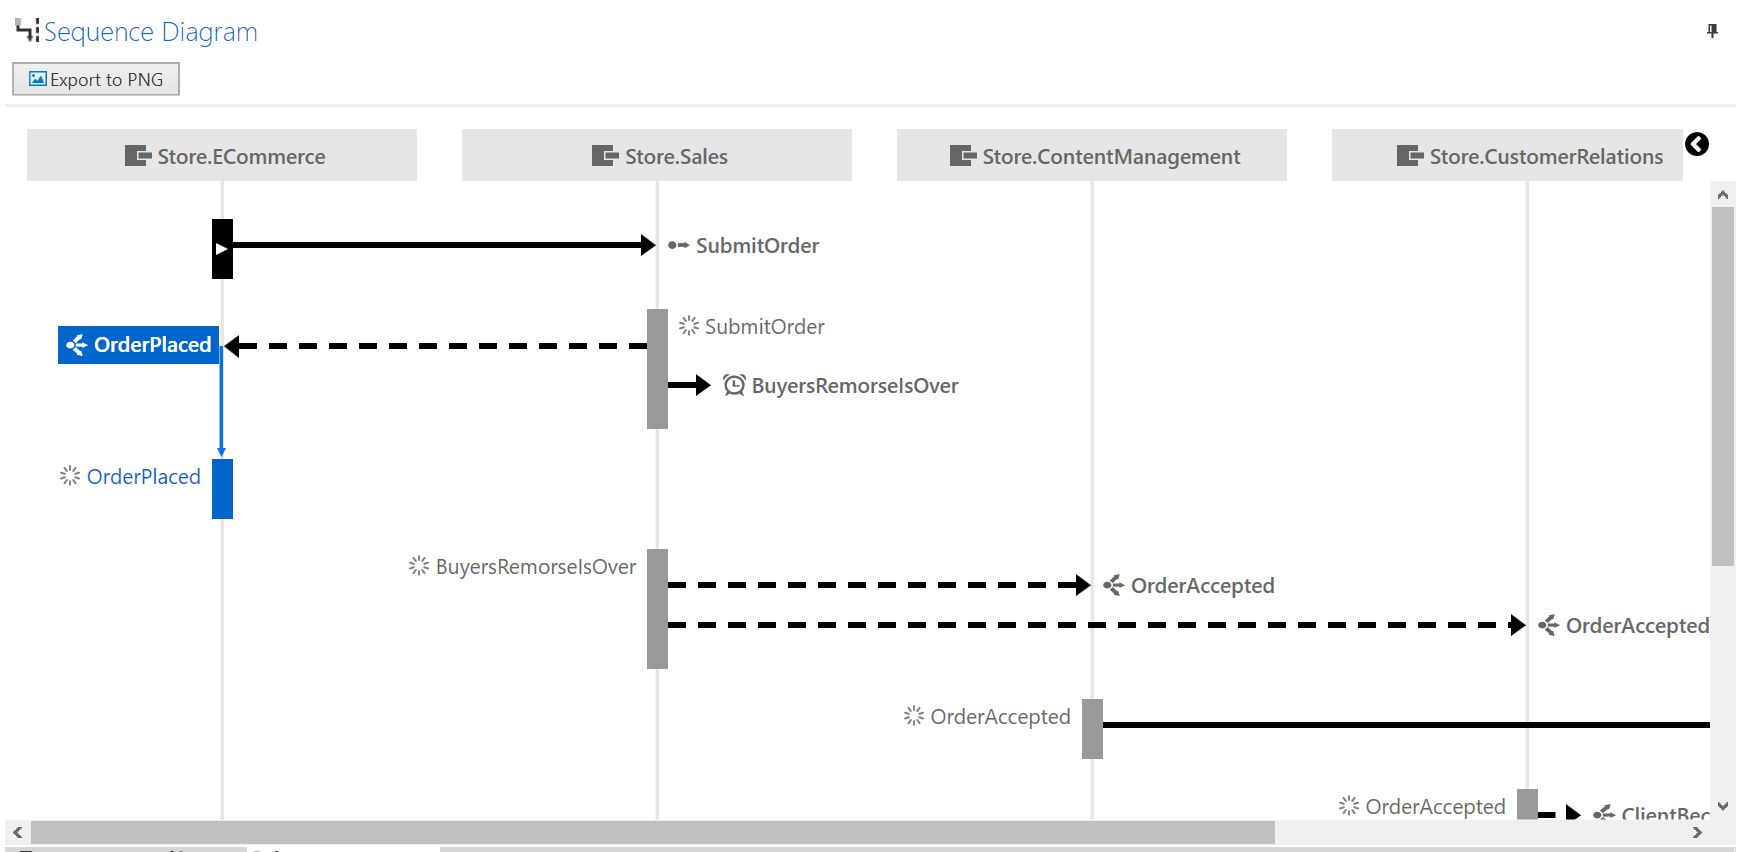
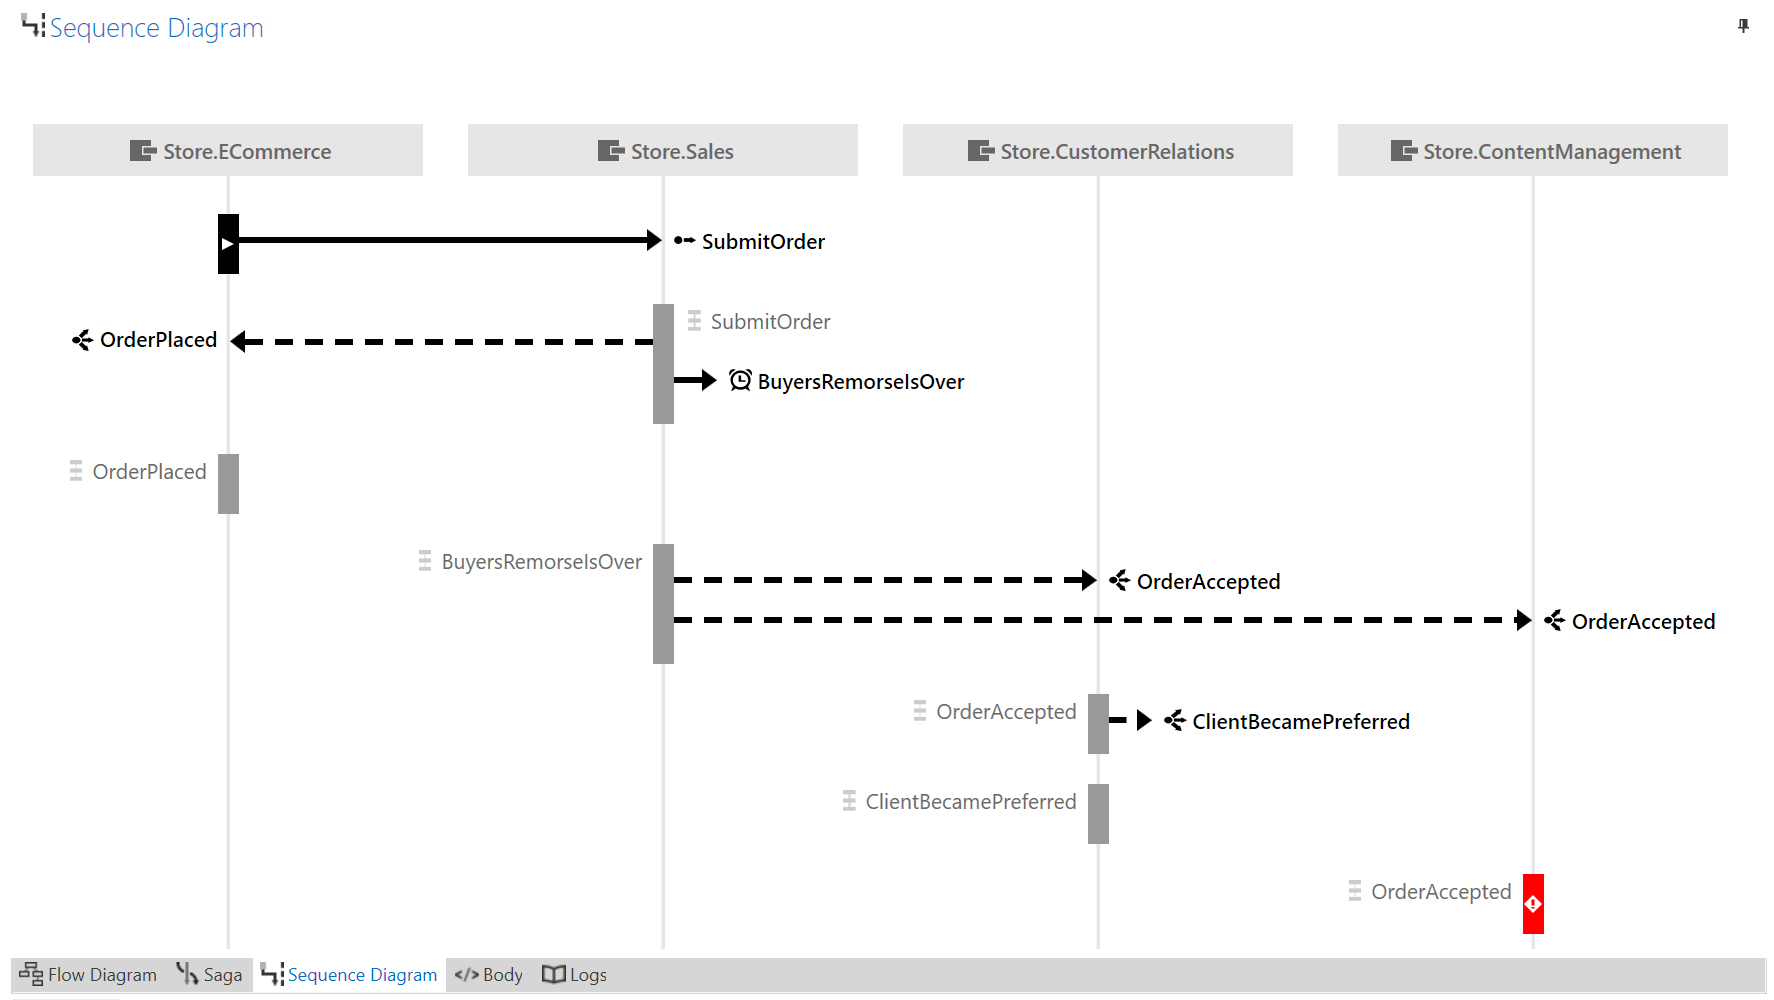
Update screenshot and link to Sequence Diagram page

Changed region(s): [[0.0, 0.0, 1.0, 1.0], [0.8374, 0.7019, 0.9925, 0.7629], [0.4342, 0.7324, 0.4652, 0.7629]]

diff --git a/serviceinsight/index.md b/serviceinsight/index.md
@@ -102,7 +102,7 @@ While the Flow Diagram is very good at showing *why* each message in a conversat
 
 ![The Sequence Diagram](images/overview-sequence-diagram.PNG)
 
-Each endpoint appears along the top of the diagram with a lifeline moving down the page showing the flow of time. Each message that is handled appears as a box on the lifeline with new messages shown as arrows. These arrows go from the handler that sent them to the lifeline of the endpoint that received them. Clicking on a message will highlight when on the lifeline the endpoint handled that message. Alternatively you can click on a handler to highlight when on the lifeline the message being handled was sent to the endpoint. Published events and sent commands have different icons and line types. Timeout requests and messages an endpoint sends to itself also have special icons making them easy to pick out. Right-clicking on a message will show a context menu with additional information and actions.
+Read more about the [Sequence Diagram](/serviceinsight/sequence-diagram/)
 
 ## Body and Log Views
 
